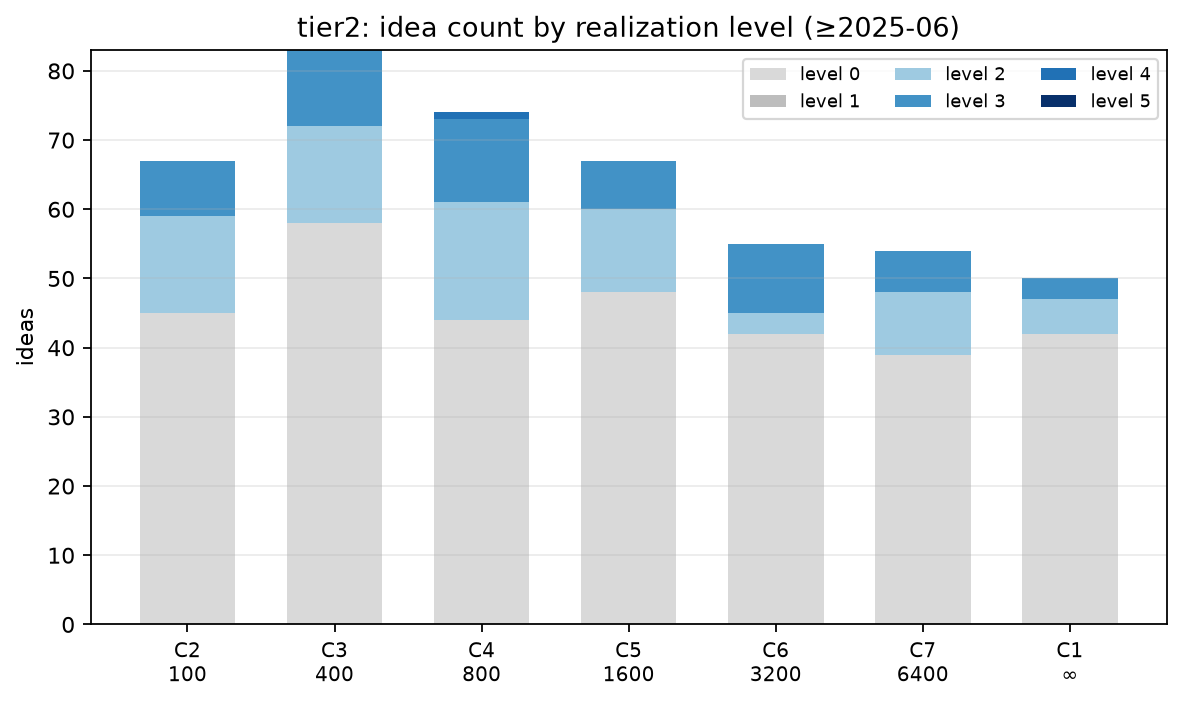
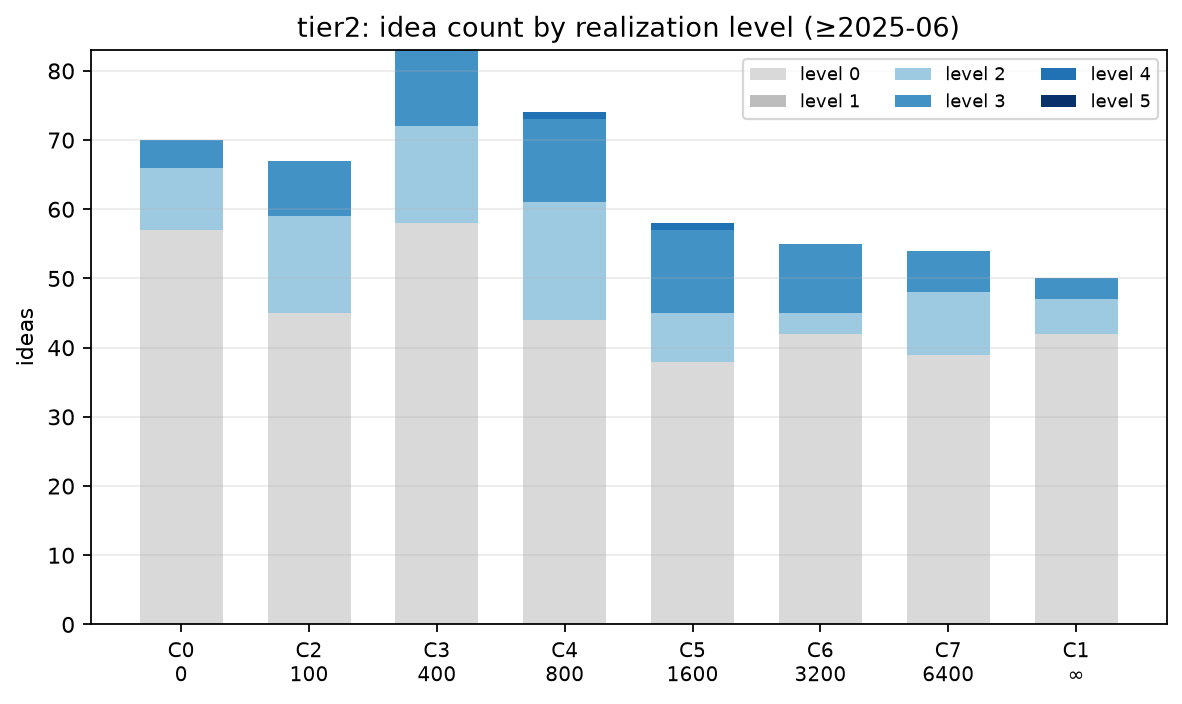
paper: C5 (m=1600) reports the replicate run — original was thread-noise dip
Replicate (same topic draws, fresh sampling) moved tier-1 from 15% to
28%, joining the narrow band; per-agent breakdown confirmed the
original's dip traced to three unproductive agent threads. The band
claim widens to 100-1600 (24-31%); Limitations now quantifies
thread-level noise (~±7pp) from this replicate pair; both runs
released. Provenance table recomputed (n=1,328).

diff --git a/paper/main.tex b/paper/main.tex
@@ -41,9 +41,9 @@ matched at level $\geq 2$, ``same specific problem''). On a
 of corpus papers an agent is allowed to read, from 100 up to the whole
 corpus. We find (i) an inverted-U in anticipation accuracy over reading
 scope, peaking at 800 papers---a coherent sub-area, not one topic---at
-tier-1 accuracy 31\%, with the whole narrow band (100--800) well ahead
-of broad scopes, and \emph{both} dial endpoints on the parametric
-floor: agents reading nothing (13\%) and unrestricted generalists
+tier-1 accuracy 31\%, with the whole narrow-to-mid band (100--1600)
+well ahead of broad scopes, and \emph{both} dial endpoints on the
+parametric floor: agents reading nothing (13\%) and unrestricted generalists
 reading anything (14\%) are indistinguishable; (ii) idea
 production peaks at a mid-narrow scope and falls as reading widens; (iii) team size is a pure throughput
 knob: per-idea accuracy is flat from 10 to 150 agents while absolute hits
@@ -112,8 +112,8 @@ per-agent interaction depth.
 \begin{itemize}
 \item \textbf{An inverted-U in idea quality, peaking at a sub-area
   scope (Sec.~\ref{sec:dial}).} Tier-1 acc@$\geq$2 peaks at $m{=}800$
-  (31\% vs.\ 14\% for generalists), with the whole narrow band
-  $m \in \{100, 400, 800\}$ (24--31\%) well above broad scopes
+  (31\% vs.\ 14\% for generalists), with the whole narrow-to-mid band
+  $m \in \{100, 400, 800, 1600\}$ (24--31\%) well above broad scopes
   (15--19\%) and generalists last. The pre-registered fear that very
   narrow scopes would starve agents of recombination material did not
   materialize---but the narrow end's advantage over the peak appears
@@ -304,7 +304,7 @@ C0 & 0 (topic name only) & 70 & 13\% (9) / 0.30 & 19\% (13) / 0.43 & 67\% (47) /
 C2 & 100   & 67 & 24\% (16) / 0.57 & 33\% (22) / 0.78 & 73\% (49) / 1.99 \\
 C3 & 400   & \textbf{83} & 24\% (20) / 0.57 & 30\% (25) / 0.73 & \textbf{88\% (73)} / \textbf{2.40} \\
 C4 & 800   & 74 & \textbf{31\% (23) / 0.77} & \textbf{41\% (30) / 1.00} & 80\% (59) / 2.24 \\
-C5 & 1600  & 67 & 15\% (10) / 0.33 & 28\% (19) / 0.67 & 54\% (36) / 1.37 \\
+C5 & 1600  & 58 & 28\% (16) / 0.76 & 34\% (20) / 0.93 & 69\% (40) / 1.88 \\
 C6 & 3200  & 55 & 15\% (8) / 0.36  & 24\% (13) / 0.65 & 62\% (34) / 1.69 \\
 C7 & 6400  & 54 & 19\% (10) / 0.43  & 28\% (15) / 0.67 & 78\% (42) / 2.20 \\
 C1 & $\infty$ & 50 & 14\% (7) / 0.32 & 16\% (8) / 0.38 & 56\% (28) / 1.46 \\
@@ -329,14 +329,15 @@ of realized ideas (level $\geq 2$) per tier.}
 Table~\ref{tab:dial} and Figure~\ref{fig:dial} give the core result.
 
 \textbf{An inverted-U peaking at a sub-area scope.} Tier-1 accuracy
-runs 24\% $\to$ 24\% $\to$ \textbf{31\%} $\to$ 15\% $\to$ 15\%
+runs 24\% $\to$ 24\% $\to$ \textbf{31\%} $\to$ 28\% $\to$ 15\%
 $\to$ 19\% $\to$ 14\% as scope widens from 100 papers to the whole
 corpus; mean realization level tracks the same shape in every tier.
 The $m{=}800$ sub-area neighborhood leads on accuracy, absolute hits,
-and mean level in tiers 1--2; the whole narrow band (100--800) clears
-every broad scope; and even the extreme $m{=}100$ core---smaller than
-the median natural topic of 228 papers---holds 24\%, refuting the
-pre-registered fear of material starvation at the narrow end.
+and mean level in tiers 1--2; the whole narrow-to-mid band (100--1600,
+24--31\%) clears every broad scope (14--19\%); and even the extreme
+$m{=}100$ core---smaller than the median natural topic of 228
+papers---holds 24\%, refuting the pre-registered fear of material
+starvation at the narrow end.
 (Without the realization window, $m{=}100$ appears to win outright at
 51\%; its excess hits concentrate exactly in the memory-risk months,
 a caution documented in Appendix~\ref{app:probes}.) Broad scopes
@@ -373,7 +374,7 @@ quality drifts over the run---and no curve saturates by round 80.}
 \end{figure}
 
 \textbf{Narrow readers ship; broad readers browse.} Idea production
-peaks at $m{=}400$ and falls as scope widens (67, 83, 74, 67, 55, 54,
+peaks at $m{=}400$ and falls as scope widens (67, 83, 74, 58, 55, 54,
 50 for $m$ = 100 through $\infty$), and
 Figure~\ref{fig:accum} shows why: after a comparable exploration onset
 (first team idea between rounds 8 and 17; median personal onset round
@@ -388,12 +389,12 @@ idea's provenance: we take the generating agent's preceding 20 actions
 by the navigation channel that produced it---the node was surfaced by an
 earlier \emph{search}, exposed as a neighbor \emph{link} in an earlier
 browse, delivered by a random \emph{jump}, or is the agent's \emph{own}
-earlier idea. Table~\ref{tab:provenance} aggregates all 1{,}337
+earlier idea. Table~\ref{tab:provenance} aggregates all 1{,}328
 evaluated ideas across our experiments. Realized and unrealized ideas
-are preceded by the \emph{same volume} of reading ($\sim$10.7 reads);
+are preceded by the \emph{same volume} of reading ($\sim$10.6 reads);
 what differs is its composition. Ideas realized in recognized venues
-(tier~1) grew out of windows with more search-driven reads (5.76
-vs.\ 4.62), fewer link-driven reads (3.75 vs.\ 4.57), fewer jumps, and
+(tier~1) grew out of windows with more search-driven reads (5.78
+vs.\ 4.55), fewer link-driven reads (3.69 vs.\ 4.64), fewer jumps, and
 almost no re-reading of the agent's own output. Search-fed material predicts realization while link-fed material
 predicts its absence---fully consistent with the channel ablations of
 Sec.~\ref{sec:noedges}, where removing links helps and removing search
@@ -404,7 +405,7 @@ hurts.
 average composition of the generating agent's 20-action lookback window
 (= its memory), grouped by realization outcome (tiers are cumulative;
 ``unrealized'' = no in-window tier-3 match at level $\geq 2$). Pooled
-over all 1{,}337 evaluated ideas from every run in the paper.}
+over all 1{,}328 evaluated ideas from every run in the paper.}
 \label{tab:provenance}
 \begin{center}\small
 \begin{tabular}{lrcccccc}
@@ -413,10 +414,10 @@ over all 1{,}337 evaluated ideas from every run in the paper.}
  \textbf{search-fed} & \textbf{link-fed} & \textbf{jump-fed} &
  \textbf{own-idea} \\
 \midrule
-tier-1 realized & 231 & 10.62 & 5.77 & \textbf{5.76} & \textbf{3.75} & 1.03 & 0.08 \\
-tier-2 realized & 316 & 10.56 & 5.61 & 5.59 & 3.79 & 1.10 & 0.07 \\
-tier-3 realized & 884 & 10.69 & 5.27 & 5.18 & 4.12 & 1.30 & 0.09 \\
-unrealized      & 453 & 10.77 & 5.10 & 4.62 & 4.57 & 1.42 & 0.16 \\
+tier-1 realized & 237 & 10.57 & 5.85 & \textbf{5.78} & \textbf{3.69} & 1.02 & 0.08 \\
+tier-2 realized & 317 & 10.56 & 5.66 & 5.61 & 3.79 & 1.09 & 0.07 \\
+tier-3 realized & 888 & 10.68 & 5.28 & 5.18 & 4.12 & 1.29 & 0.09 \\
+unrealized      & 440 & 10.77 & 5.07 & 4.55 & 4.64 & 1.41 & 0.16 \\
 \bottomrule
 \end{tabular}
 \end{center}
@@ -584,11 +585,15 @@ dynamics extending it obey different attachment rules.
 \section{Limitations}
 \label{sec:limits}
 
-\textbf{Single seed.} Every condition currently rests on one seeded run;
-per-condition idea counts (50--280) give usable per-idea statistics, but
-between-condition differences---especially the exact peak location on
-the dial---need replication across seeds (and topic draws) before strong
-claims. The clearest findings (scoped $>$ unrestricted on all tiers;
+\textbf{Single seed.} Every condition rests on one seeded run
+(50--280 ideas each). Ideas cluster by agent thread, and a replicate of
+the $m{=}1600$ condition (identical topics, fresh sampling) moved
+tier-1 accuracy from 15\% to 28\%---roughly $\pm$7 points of
+thread-level noise per run; we report the replicate, and release both.
+The narrow-band-vs-broad contrast and the floor comparisons exceed this
+noise band; the fine structure within each band does not, and the exact
+peak location needs replication across seeds (and topic draws) before
+strong claims. The clearest findings (scoped $>$ unrestricted on all tiers;
 monotone production; flat scaling; zero coupling) are consistent across
 many runs and both experiments.
 
